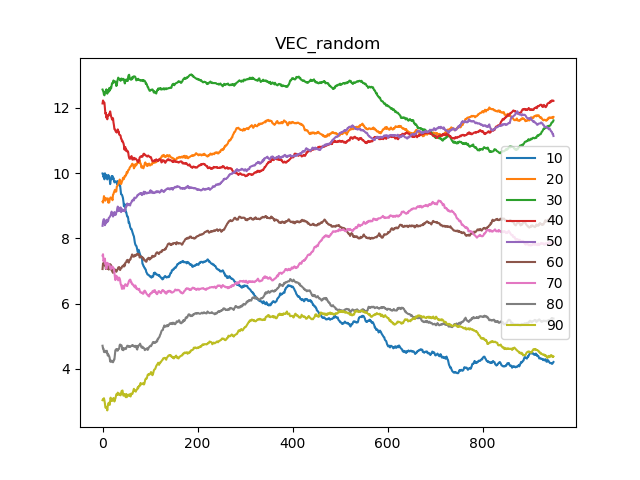
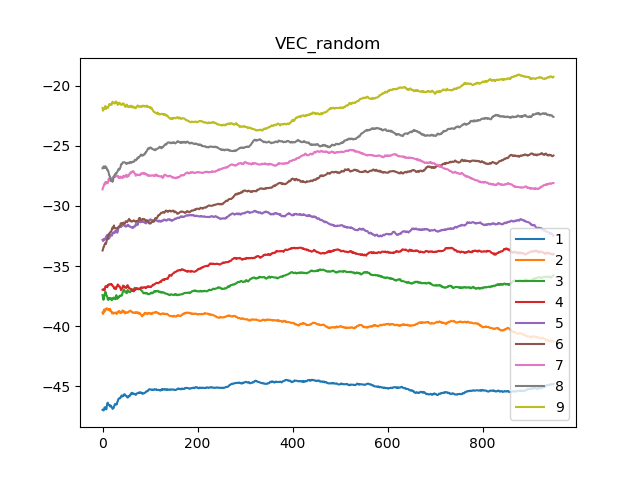
...

diff --git a/environments/VEC_Environment.py b/environments/VEC_Environment.py
@@ -21,7 +21,7 @@ class VEC_Environment(gym.Env):
         self.maxR = 500 #m, max relative distance between request vehicle and other vehicles
         self.maxV = 30 #km/h, max relative velocity between requst vehicle and other vehicles
         self.max_v = 80 # maximum vehicles in the communication range of request vehicle
-        self.max_local_task = 1
+        self.max_local_task = 10
         self.bandwidth = 6 # MHz
         self.snr_ref = 1 # reference SNR, which is used to compute rate by B*log2(1+snr_ref*d^-a) 
         self.snr_alpha = 2
@@ -31,13 +31,14 @@ class VEC_Environment(gym.Env):
         self.max_tau = 2 # s
         self.price = 0.1
         self.max_price = np.log(1+self.max_tau)/20
-        self.price_level = 100
+        self.price_level = 10
 
         self.action_space = spaces.Discrete(self.num_vehicles*self.price_level)
         self.observation_space = spaces.Dict({
             "snr":spaces.Box(0,self.snr_ref,shape=(self.num_vehicles,),dtype='float32'),
             "time_remain":spaces.Box(0,100,shape=(self.num_vehicles,),dtype='float32'),
             "freq_remain":spaces.Box(0,6,shape=(self.num_vehicles,),dtype='float32'),
+            "u_max":spaces.Box(0,self.max_local_task*self.max_tau,shape=(self.num_vehicles,),dtype='float32'),
             "task":spaces.Box(0,max(self.max_datasize,self.max_compsize,self.max_tau),shape=(3,),dtype='float32')})
         self.seed()
         self.reward_threshold = 0.0
@@ -70,11 +71,14 @@ class VEC_Environment(gym.Env):
         for v in self.vehicles:
             v["freq"] = v["freq_init"]
             v["freq_remain"] = max(0, v["freq_init"] - sum([i[1]/i[2] for i in v["tasks"]]))
+            alpha_max = v["freq_remain"]/v["freq"]
+            v["u_max"] = sum([np.log(1+alpha_max*i[2]) for i in v["tasks"]])
         task = self.tasks[0]
         self.s = {
             "snr":np.array([min(self.snr_ref*(abs(v["position"])/200)**-2, 1) for v in self.vehicles]),
             "time_remain":np.array([min(-v["position"]/v["velocity"]+500/abs(v["velocity"]), 100) for v in self.vehicles]),
             "freq_remain":np.array([v["freq_remain"] for v in self.vehicles]),
+            "u_max":np.array([v["u_max"] for v in self.vehicles]),
             "task":np.array(task)}
         return spaces.flatten(self.observation_space, self.s)
 
@@ -82,7 +86,9 @@ class VEC_Environment(gym.Env):
         self.step_count += 1
         # print("action=",action)
         self.reward = self.compute_reward(action)
-        self.s["freq_remain"][action//self.price_level] = self.vehicles[action//self.price_level]["freq_remain"]
+        v_id = action//self.price_level
+        self.s["freq_remain"][v_id] = self.vehicles[v_id]["freq_remain"]
+        self.s["u_max"][v_id] = self.vehicles[v_id]["u_max"]
         if self.step_count >= self.task_num_per_episode: 
             self.done = True
         else: 
@@ -114,6 +120,8 @@ class VEC_Environment(gym.Env):
             reward = np.log(1+task[2]-t_total) - cost
             v["freq"] -= freq_alloc
             v["freq_remain"] = max(0, v["freq"] - sum([i[1]/i[2] for i in v["tasks"]]))
+            alpha_max = v["freq_remain"]/v["freq"]
+            v["u_max"] = sum([np.log(1+alpha_max*i[2]) for i in v["tasks"]])
             # if reward <= 0:
             #     print("t_total=",t_total,"reward=",reward)
         return reward
@@ -125,7 +133,7 @@ class VEC_Environment(gym.Env):
             v_p = random.uniform(-self.maxR,self.maxR)
             v_v = random.uniform(-self.maxV,self.maxV)
             v_v = v_v if v_v!=0 else random.choice([-0.1, 0.1])
-            self.vehicles.append({"id":self.vehicle_count, "position":v_p, "velocity":v_v, "freq_init":v_f, "freq":v_f, "freq_remain":0, "tasks":[]})
+            self.vehicles.append({"id":self.vehicle_count, "position":v_p, "velocity":v_v, "freq_init":v_f, "freq":v_f, "freq_remain":0, "tasks":[], "u_max":0})
 
     def add_vehicle(self):
         if len(self.vehicles) <= self.num_vehicles:
@@ -134,7 +142,7 @@ class VEC_Environment(gym.Env):
             v_v = random.uniform(-self.maxV,self.maxV)
             v_v = v_v if v_v!=0 else random.choice([-0.1, 0.1])
             v_p = -self.maxR if v_v>0 else self.maxR
-            self.vehicles.append({"id":self.vehicle_count, "position":v_p, "velocity":v_v, "freq_init":v_f, "freq":v_f, "freq_remain":0, "tasks":[]})
+            self.vehicles.append({"id":self.vehicle_count, "position":v_p, "velocity":v_v, "freq_init":v_f, "freq":v_f, "freq_remain":0, "tasks":[], "u_max":0})
 
     def move_vehicles(self):
         for i in range(len(self.vehicles)-1,-1,-1):

diff --git a/VEC1.py b/VEC1.py
@@ -7,7 +7,7 @@ import matplotlib.pyplot as plt
 from environments.VEC_Environment import VEC_Environment
 
 
-num_vehicles = 20
+num_vehicles = 30
 task_num = 50
 num_episode = 1000
 trials = 300
@@ -16,7 +16,7 @@ action_type = ["random", "greedy"]
 for i in action_type:
     plt.figure()
     plt.title("VEC_{}".format(i))
-    for price_level in range(10,100,10):
+    for price_level in range(1,10):
         results = []
         rollings = []
         env = VEC_Environment(num_vehicles=num_vehicles, task_num=task_num)
